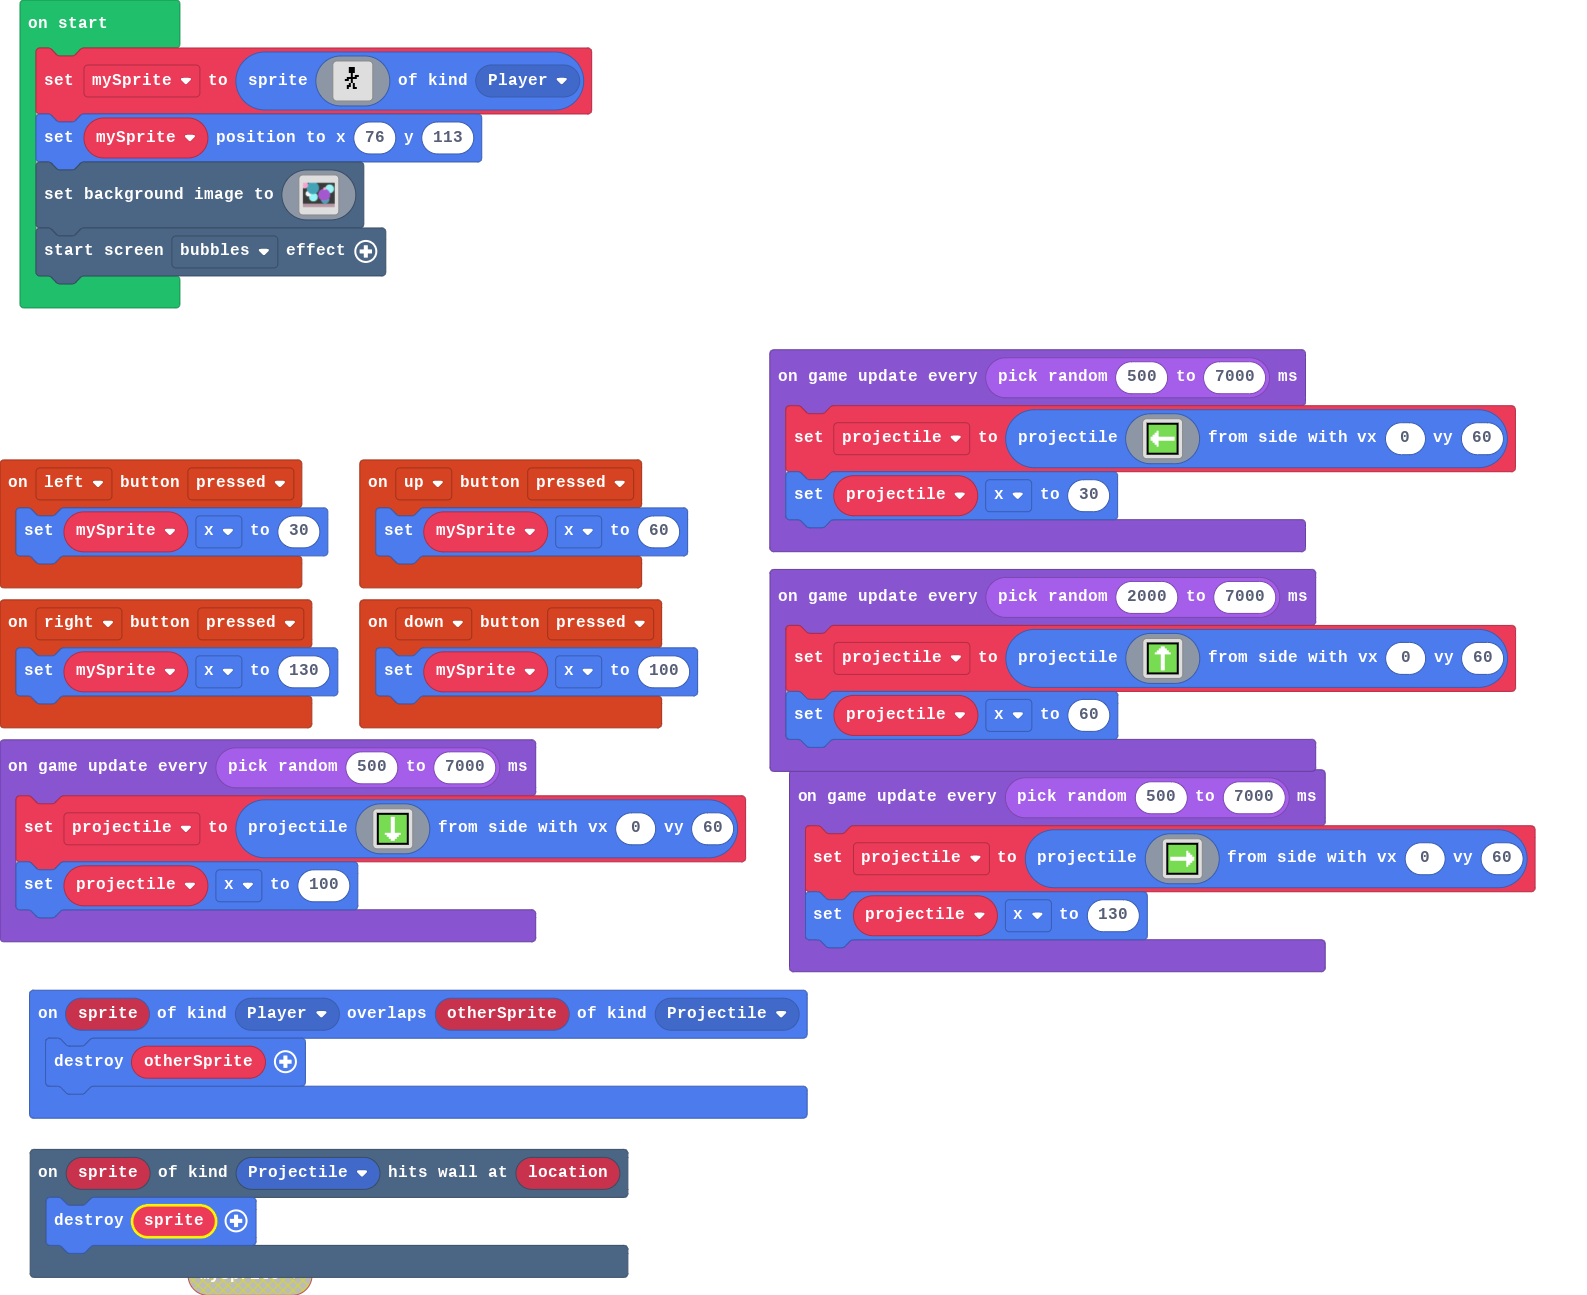
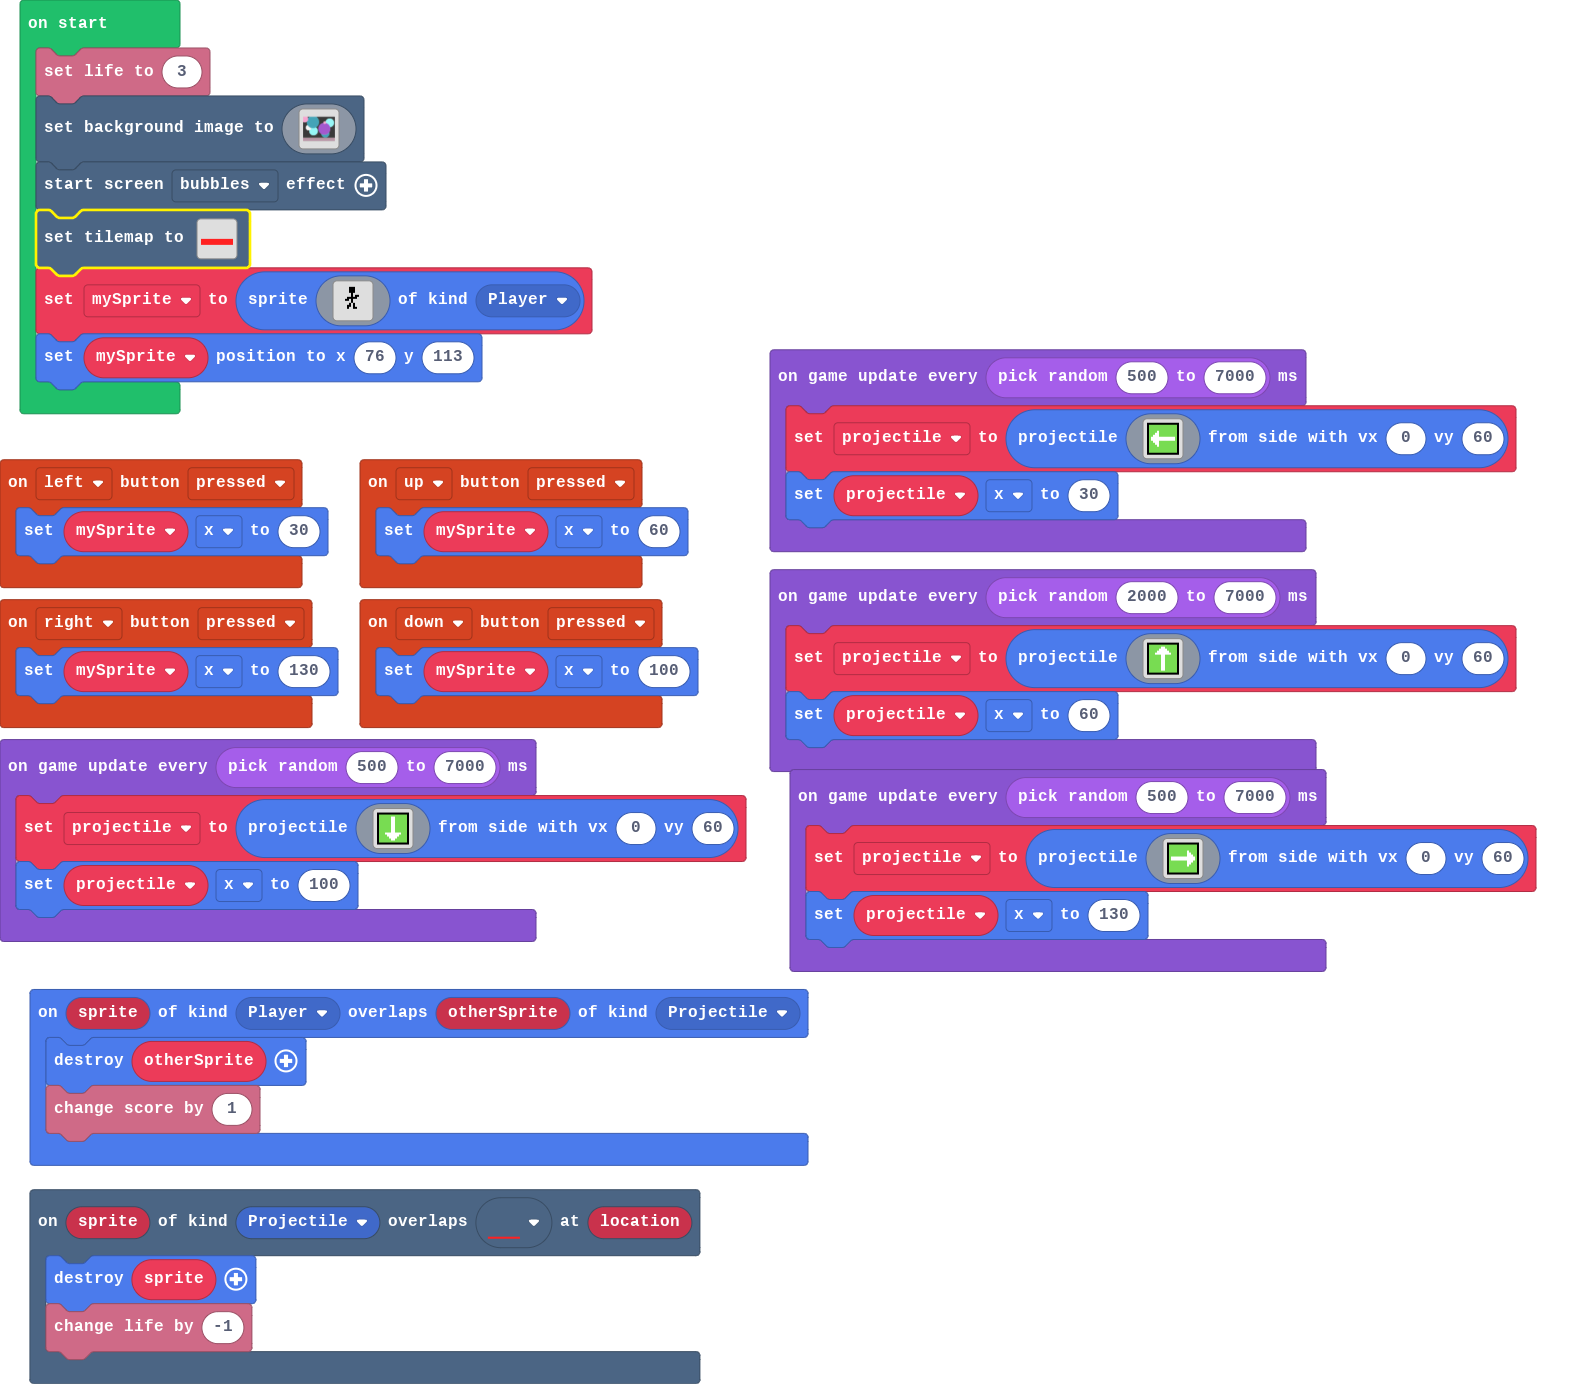
Update pxt.json, main.blocks, main.ts, tilemap.g.jres, tilemap.g.ts

diff --git a/main.ts b/main.ts
@@ -1,6 +1,10 @@
 controller.up.onEvent(ControllerButtonEvent.Pressed, function () {
     mySprite.x = 60
 })
+scene.onOverlapTile(SpriteKind.Projectile, assets.tile`myTile`, function (sprite, location) {
+    sprite.destroy()
+    info.changeLifeBy(-1)
+})
 controller.left.onEvent(ControllerButtonEvent.Pressed, function () {
     mySprite.x = 30
 })
@@ -9,34 +13,14 @@ controller.right.onEvent(ControllerButtonEvent.Pressed, function () {
 })
 sprites.onOverlap(SpriteKind.Player, SpriteKind.Projectile, function (sprite, otherSprite) {
     otherSprite.destroy()
+    info.changeScoreBy(1)
 })
 controller.down.onEvent(ControllerButtonEvent.Pressed, function () {
     mySprite.x = 100
 })
-scene.onHitWall(SpriteKind.Projectile, function (sprite, location) {
-    sprite.destroy()
-})
 let projectile: Sprite = null
 let mySprite: Sprite = null
-mySprite = sprites.create(img`
-    . . . . . . . . . . . . . . . . 
-    . . . . . . f f f . . . . . . . 
-    . . . . . . f f f . . . . . . . 
-    . . . . . . f f f . . . . . . . 
-    . . . . . . . f . . . . . . . . 
-    . . . . . . . f . f f . . . . . 
-    . . . . . f f f f f . . . . . . 
-    . . . . f f . f . . . . . . . . 
-    . . . . . . . f . . . . . . . . 
-    . . . . . . f . f . . . . . . . 
-    . . . . . f f . f . . . . . . . 
-    . . . . . f . . f f . . . . . . 
-    . . . . . . . . . . . . . . . . 
-    . . . . . . . . . . . . . . . . 
-    . . . . . . . . . . . . . . . . 
-    . . . . . . . . . . . . . . . . 
-    `, SpriteKind.Player)
-mySprite.setPosition(76, 113)
+info.setLife(3)
 scene.setBackgroundImage(img`
[2 lines of base64/hex data omitted]
@@ -160,6 +144,26 @@ scene.setBackgroundImage(img`
     bbbbbbbbbbbbbbbbbbbbbbbbbbbbbbbbbbbbbbbbbbbbbbbbbbbbbbbbbbbbbbbbbbbbbbbbbbbbbbbbbbbbbbbbbbbbbbbbbbbbbbbbbbbbbbbbbbbbbbbbbbbbbbbbbbbbbbbbbbbbbbbbbbbbbbbbbbbbbbbb
     `)
 effects.bubbles.startScreenEffect()
+tiles.setTilemap(tilemap`level1`)
+mySprite = sprites.create(img`
+    . . . . . . . . . . . . . . . . 
+    . . . . . . f f f . . . . . . . 
+    . . . . . . f f f . . . . . . . 
+    . . . . . . f f f . . . . . . . 
+    . . . . . . . f . . . . . . . . 
+    . . . . . . . f . f f . . . . . 
+    . . . . . f f f f f . . . . . . 
+    . . . . f f . f . . . . . . . . 
+    . . . . . . . f . . . . . . . . 
+    . . . . . . f . f . . . . . . . 
+    . . . . . f f . f . . . . . . . 
+    . . . . . f . . f f . . . . . . 
+    . . . . . . . . . . . . . . . . 
+    . . . . . . . . . . . . . . . . 
+    . . . . . . . . . . . . . . . . 
+    . . . . . . . . . . . . . . . . 
+    `, SpriteKind.Player)
+mySprite.setPosition(76, 113)
 game.onUpdateInterval(randint(2000, 7000), function () {
     projectile = sprites.createProjectileFromSide(img`
         f f f f f f f f f f f f f f f f 

diff --git a/tilemap.g.ts b/tilemap.g.ts
@@ -1,0 +1,43 @@
+// Auto-generated code. Do not edit.
+namespace myTiles {
+    //% fixedInstance jres blockIdentity=images._tile
+    export const transparency16 = image.ofBuffer(hex``);
+    //% fixedInstance jres blockIdentity=images._tile
+    export const tile1 = image.ofBuffer(hex``);
+
+    helpers._registerFactory("tilemap", function(name: string) {
+        switch(helpers.stringTrim(name)) {
+            case "level1":
+            case "level1":return tiles.createTilemap(hex`1000100000000000000000000000000000000000000000000000000000000000000000000000000000000000000000000000000000000000000000000000000000000000000000000000000000000000000000000000000000000000000000000000000000000000000000000000000000000000000000000000000000000000000000000101010101010101010101010101010101010101010101010101010101010101010101010101010101010101010101010000000000000000000000000000000000000000000000000000000000000000000000000000000000000000000000000000000000000000000000000000000000000000000000000000000000000000`, img`
+. . . . . . . . . . . . . . . . 
+. . . . . . . . . . . . . . . . 
+. . . . . . . . . . . . . . . . 
+. . . . . . . . . . . . . . . . 
+. . . . . . . . . . . . . . . . 
+. . . . . . . . . . . . . . . . 
+. . . . . . . . . . . . . . . . 
+. . . . . . . . . . . . . . . . 
+. . . . . . . . . . . . . . . . 
+. . . . . . . . . . . . . . . . 
+. . . . . . . . . . . . . . . . 
+. . . . . . . . . . . . . . . . 
+. . . . . . . . . . . . . . . . 
+. . . . . . . . . . . . . . . . 
+. . . . . . . . . . . . . . . . 
+. . . . . . . . . . . . . . . . 
+`, [myTiles.transparency16,myTiles.tile1], TileScale.Sixteen);
+        }
+        return null;
+    })
+
+    helpers._registerFactory("tile", function(name: string) {
+        switch(helpers.stringTrim(name)) {
+            case "transparency16":return transparency16;
+            case "myTile":
+            case "tile1":return tile1;
+        }
+        return null;
+    })
+
+}
+// Auto-generated code. Do not edit.
